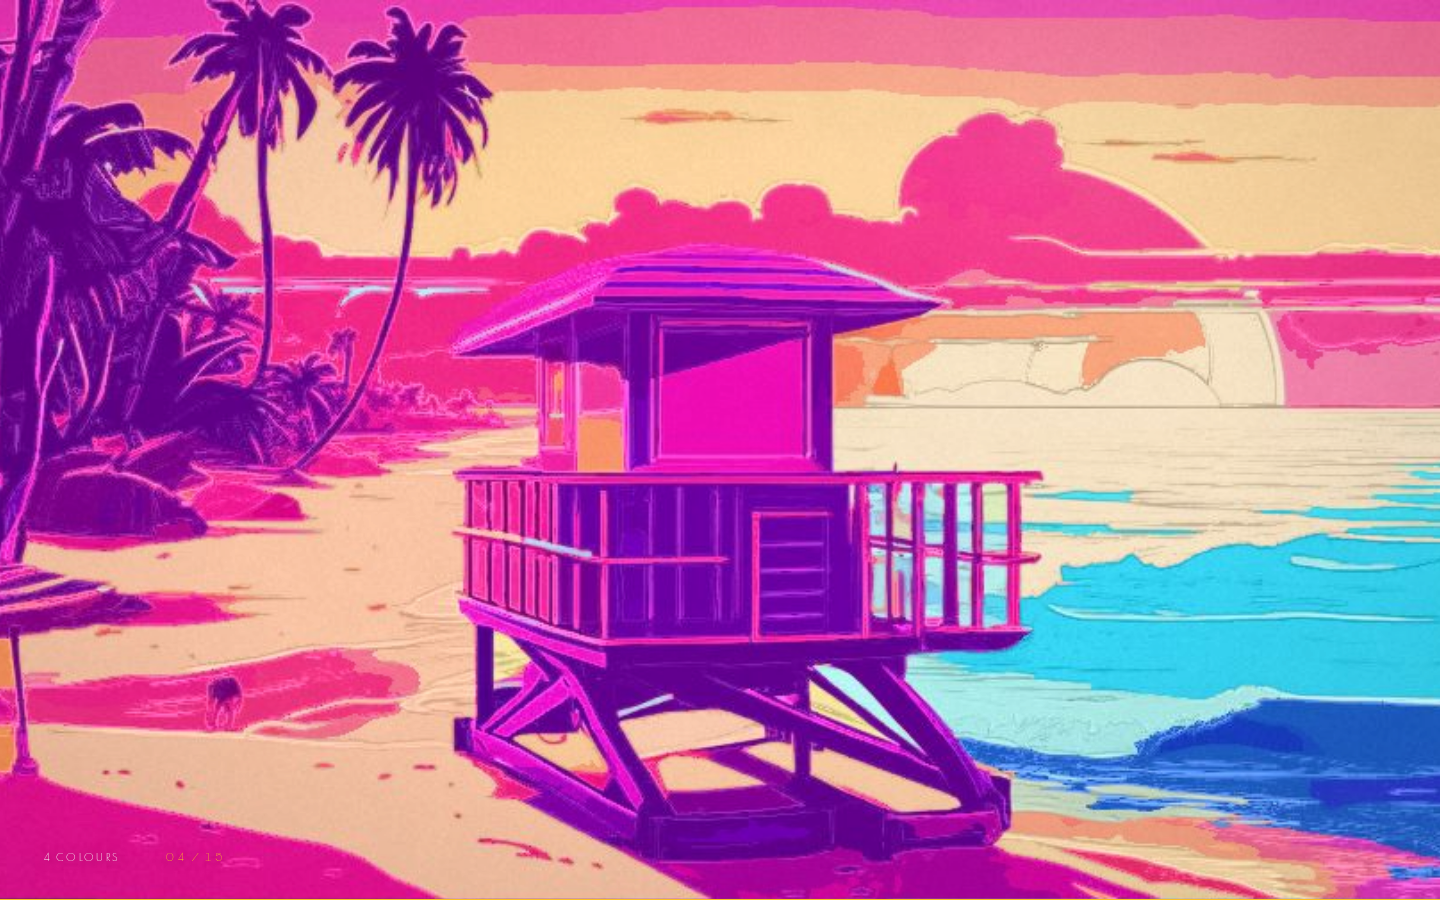
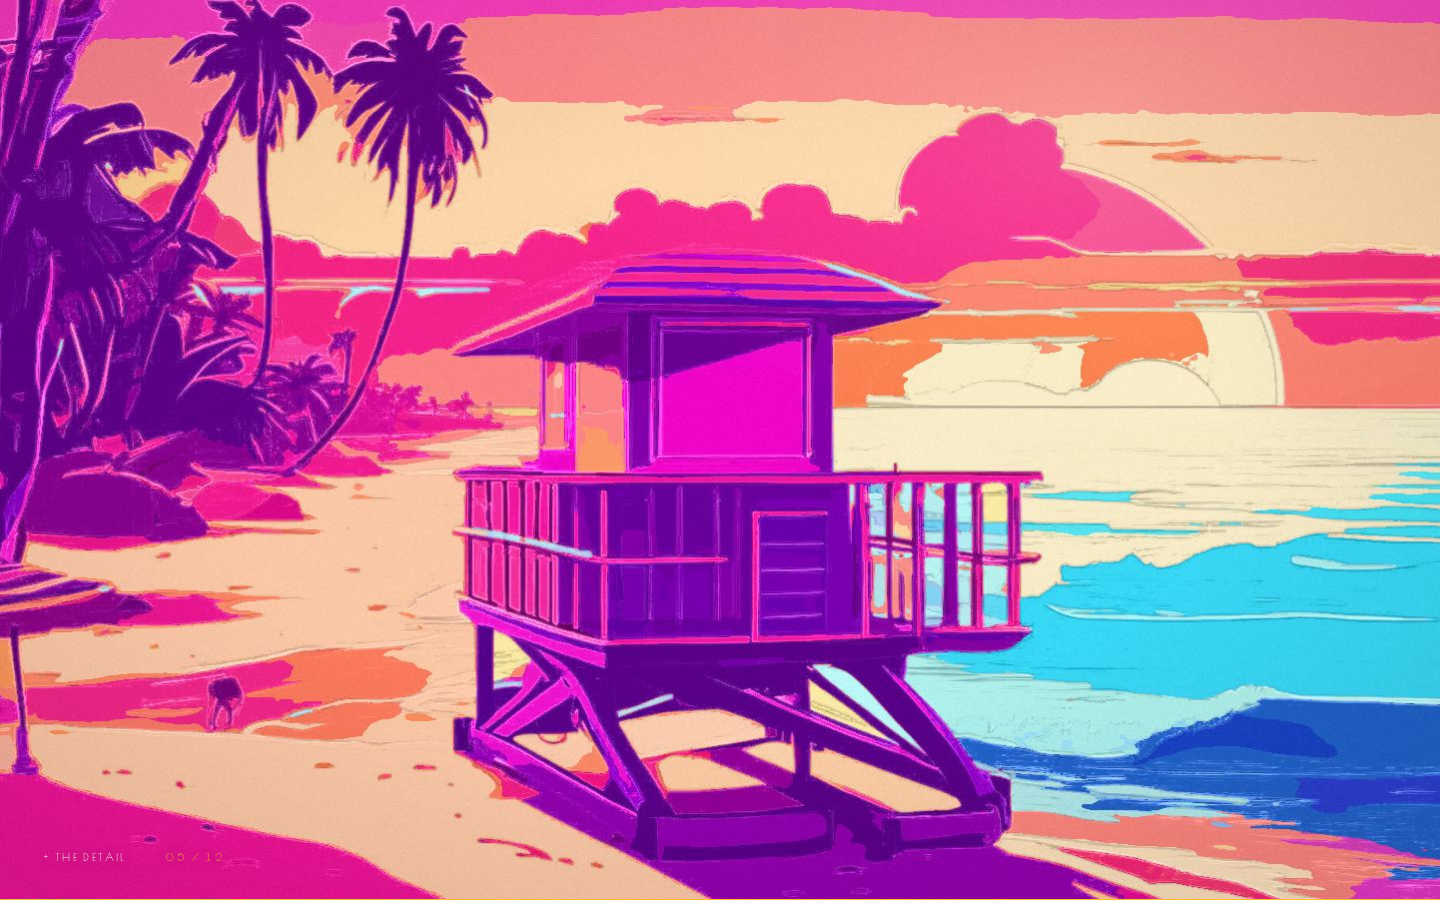
the film builds the plate's layers — flats, ink, detail, palette, paper — at 1600x900
The build was a fidelity ramp (3, 4, 6, 9, 13, 20 colours) and read as one blurry picture rather than a build.
It is now the plate *with one more pass done to it*, in the press's own order: the drawing, the hour, the flat
shapes, the +ink lines, the +detail, the fuller palette, and the plate with its paper — driven through
styliseImageData's own ink/detail/paper knobs, with the layer values scaled from the preset so they mean the
same thing whatever units it uses. Verified at 1:1: the railing gains drawn bars between "flat shapes" and
"+ the ink lines".

And it plays crisp: cells are 1600x900 (the width of a laptop screen), drawn 1:1 with no DPR upscaling and
smoothing at high quality for the cover-fit's sub-pixel work only. The spec asserts the backing store equals
the CSS size rather than leaving "crisp" to a screenshot — a capture taken mid-dissolve shows a blend, which
reads as softness and is nothing of the kind.

Twelve frames now (7 build + 5 places), 2.4MB, ~5.4s.

tests: 199 unit, 53 e2e. The full local suite run at one worker reported 50 passed / 1 failed: the phone walk,
which fails only with the suite's leaked browsers resident (it fails both --repeat-each=2 repeats straight
after a full run, and passes 3/3 alone at 15.9s) and is off this change's path — it never mounts the entry or
the film. CI, which has the memory, is green.

diff --git a/src/components/PlateFilm.tsx b/src/components/PlateFilm.tsx
@@ -3,11 +3,11 @@ import { useEffect, useRef, useState, type ReactElement } from "react";
 /**
  * The film on the title sheet: the city plate being generated.
  *
- * Fifteen cells of one sprite, dissolved one into the next — the city's own drawing, the hour's grade, then the
- * flattening from three colours to twenty, and the plates of the other places at other hours. No faces: these
- * are the plates the city draws of itself. The frames were generated by `tools/make-film.mjs`, which calls this
- * app's own `gradePixels` and `styliseImageData`, so what the visitor watches is the pipeline rather than a
- * picture of it.
+ * Twelve cells of one sprite, dissolved one into the next — and the build is the plate's *layers*, in the
+ * press's own order: the city's drawing, the hour's grade, the flat shapes, the ink lines, the detail, a fuller
+ * palette, and the plate with its paper. Then the city at other hours. No faces: these are the plates the city
+ * draws of itself. The frames were generated by `tools/make-film.mjs`, which calls this app's own `gradePixels`
+ * and `styliseImageData`, so what the visitor watches is the pipeline rather than a picture of it.
  *
  * Full-bleed on purpose: the sheet's padding is undone so the film *is* the screen, and each cell is
  * cover-fitted, so it fills whatever viewport it lands on instead of letterboxing inside a mat. The step's name
@@ -17,12 +17,12 @@ import { useEffect, useRef, useState, type ReactElement } from "react";
  * unavailable, `onDone` fires and the title gets on with it — the same contract as the face gate. Reduced
  * motion never mounts it at all, and `?film=0` skips it for a probe that wants the title without the wait.
  */
-const CELL_W = 896;
-const CELL_H = 504;
-const CELLS = 15;
-const COLS = 5;
+const CELL_W = 1600;
+const CELL_H = 900;
+const CELLS = 12;
+const COLS = 6;
 /** Through this cell is the build; after it, the city at other hours. Slower first, then brisker. */
-const BUILD_LAST = 7;
+const BUILD_LAST = 6;
 const BUILD_MS = 520;
 const PLATE_MS = 360;
 const HOLD_MS = 500;
@@ -32,19 +32,16 @@ const GUARD_MS = 8000;
 const LABELS = [
   "the city's own drawing",
   "the hour — dusk",
-  "3 colours",
-  "4 colours",
-  "6 colours",
-  "9 colours",
-  "13 colours",
-  "20 colours — the plate",
+  "the flat shapes",
+  "+ the ink lines",
+  "+ the detail",
+  "+ more colours — 12",
+  "the plate — with its paper",
   "the marina, at golden hour",
   "the rooftop, at night",
   "palm boulevard, in the neon",
   "the beach, after dark",
-  "the marina, after dark",
-  "palm boulevard, at golden hour",
-  "the rooftop, at dusk",
+  "the marina, at dusk",
 ];
 
 export function PlateFilm({ onDone }: { onDone: () => void }): ReactElement {
@@ -89,13 +86,16 @@ export function PlateFilm({ onDone }: { onDone: () => void }): ReactElement {
         return;
       }
 
-      // Drawn at device resolution (capped at 2) — the same rule the vapour follows. The film has to fill the
-      // screen, so the buffer is sized from the element and each cell is cover-fitted into it.
-      const scale = Math.min(2, window.devicePixelRatio || 1);
-      const cw = Math.max(320, Math.round((canvas.clientWidth || 1280) * scale));
-      const ch = Math.max(180, Math.round((canvas.clientHeight || 720) * scale));
+      // One to one, on purpose. The cells are 1600×900 — the width of a laptop screen — so drawing them at
+      // device resolution would *upscale* the source on a retina display and soften exactly the ink lines the
+      // build is there to show. The film is drawn at 1:1 with the cell, and the cover-fit's own sub-pixel
+      // scaling is smoothed at the best quality the canvas has.
+      const cw = Math.max(320, Math.round(canvas.clientWidth || 1280));
+      const ch = Math.max(180, Math.round(canvas.clientHeight || 720));
       canvas.width = cw;
       canvas.height = ch;
+      ctx.imageSmoothingEnabled = true;
+      ctx.imageSmoothingQuality = "high";
 
       const cover = (into: CanvasRenderingContext2D, index: number): void => {
         const sx = (index % COLS) * CELL_W;

diff --git a/tests/e2e/film.spec.ts b/tests/e2e/film.spec.ts
@@ -36,10 +36,24 @@ test.describe("the film on the title sheet", () => {
     expect(Math.abs(cover.right), "and reaches the right edge").toBeLessThan(4);
     expect(Math.abs(cover.bottom), "and the bottom").toBeLessThan(4);
 
+    // And it is drawn one-to-one: the canvas's backing store is exactly its CSS size, so the ink lines the
+    // build shows are the lines in the sprite rather than a resample of them.
+    const pixels = await film.evaluate((el) => {
+      const canvas = el as HTMLCanvasElement;
+      return {
+        w: canvas.width,
+        h: canvas.height,
+        cw: Math.round(canvas.clientWidth),
+        ch: Math.round(canvas.clientHeight),
+      };
+    });
+    expect(pixels.w, "the backing store is not the CSS width").toBe(pixels.cw);
+    expect(pixels.h, "the backing store is not the CSS height").toBe(pixels.ch);
+
     // The first step names itself, and the counter is the film's own: how a plate is generated, step by step.
     const label = page.locator(".entry-film-label");
     await expect(label).not.toHaveText("");
-    await expect(page.locator(".entry-film-step")).toHaveText(/^\d\d \/ 15$/);
+    await expect(page.locator(".entry-film-step")).toHaveText(/^\d\d \/ 12$/);
 
     // While the film runs the title block is not there yet, and a letter is still buried in its mask.
     const blockOpacity = await page

diff --git a/README.md b/README.md
@@ -168,17 +168,18 @@ layers**, which stays disabled until there is more than one layer to flatten —
 
 ## the way in
 
-the title sheet opens with a **film** — the city plate being generated, full-bleed. Fifteen frames, dissolved
-one into the next, and every one of them the city's own drawing: the beach as it arrives, the hour's grade,
-then the same canvas flattened at 3, 4, 6, 9, 13 and 20 colours, and the other places at other hours. **No
-faces** — these are the plates the city draws of itself. The step names itself on screen while it runs, because
-the point of the film is how a plate is generated: `the city's own drawing`, `the hour — dusk`, `4 colours`,
-`the marina, at golden hour`. The frames are not drawn by hand and no art was commissioned: `tools/make-film.mjs`
-opens the dev server and calls *this app's* `gradePixels`, `gradeFor` and `styliseImageData` through a dev-only
-handle, laying the outputs into one sprite — so the film is the pipeline rather than a picture of it, and running
-the script again regenerates it from code. The title's floor clock waits on the film (the film is not the title),
-the letters wait for both the face and the film, and a sprite that fails or is slow skips the film entirely
-rather than holding the sheet. `?film=0` skips it for a probe.
+the title sheet opens with a **film** — the city plate being generated, full-bleed. Twelve frames, dissolved one
+into the next, and the build is the plate's *layers* in the press's own order: the city's drawing, the hour's
+grade, the flat shapes, the ink lines, the detail, a fuller palette, and the plate with its paper — then the city
+at other hours. **No faces**: these are the plates the city draws of itself. The step names itself on screen
+while it runs, because the point of the film is how a plate is generated: `the flat shapes`, `+ the ink lines`,
+`the marina, at golden hour`. The frames are not drawn by hand and no art was commissioned:
+`tools/make-film.mjs` opens the dev server and calls *this app's* `gradePixels`, `gradeFor` and
+`styliseImageData` through a dev-only handle — driving the press's own `ink`, `detail` and `paper` knobs so each
+frame is the plate *with one more pass done to it* — and lays the 1600×900 outputs into one sprite. The film
+plays them one-to-one, with no resampling (asserted: the canvas's backing store is its CSS size), the title's
+floor clock waits on it, the letters wait for both the face and the film, and a sprite that fails or is slow
+skips the film entirely. `?film=0` skips it for a probe.
 
 every visit opens on a title sheet: the wordmark assembling letter by letter — each letter rising from
 behind its own mask, so it reads as type being *set* rather than text fading in — a counter beside it reading
